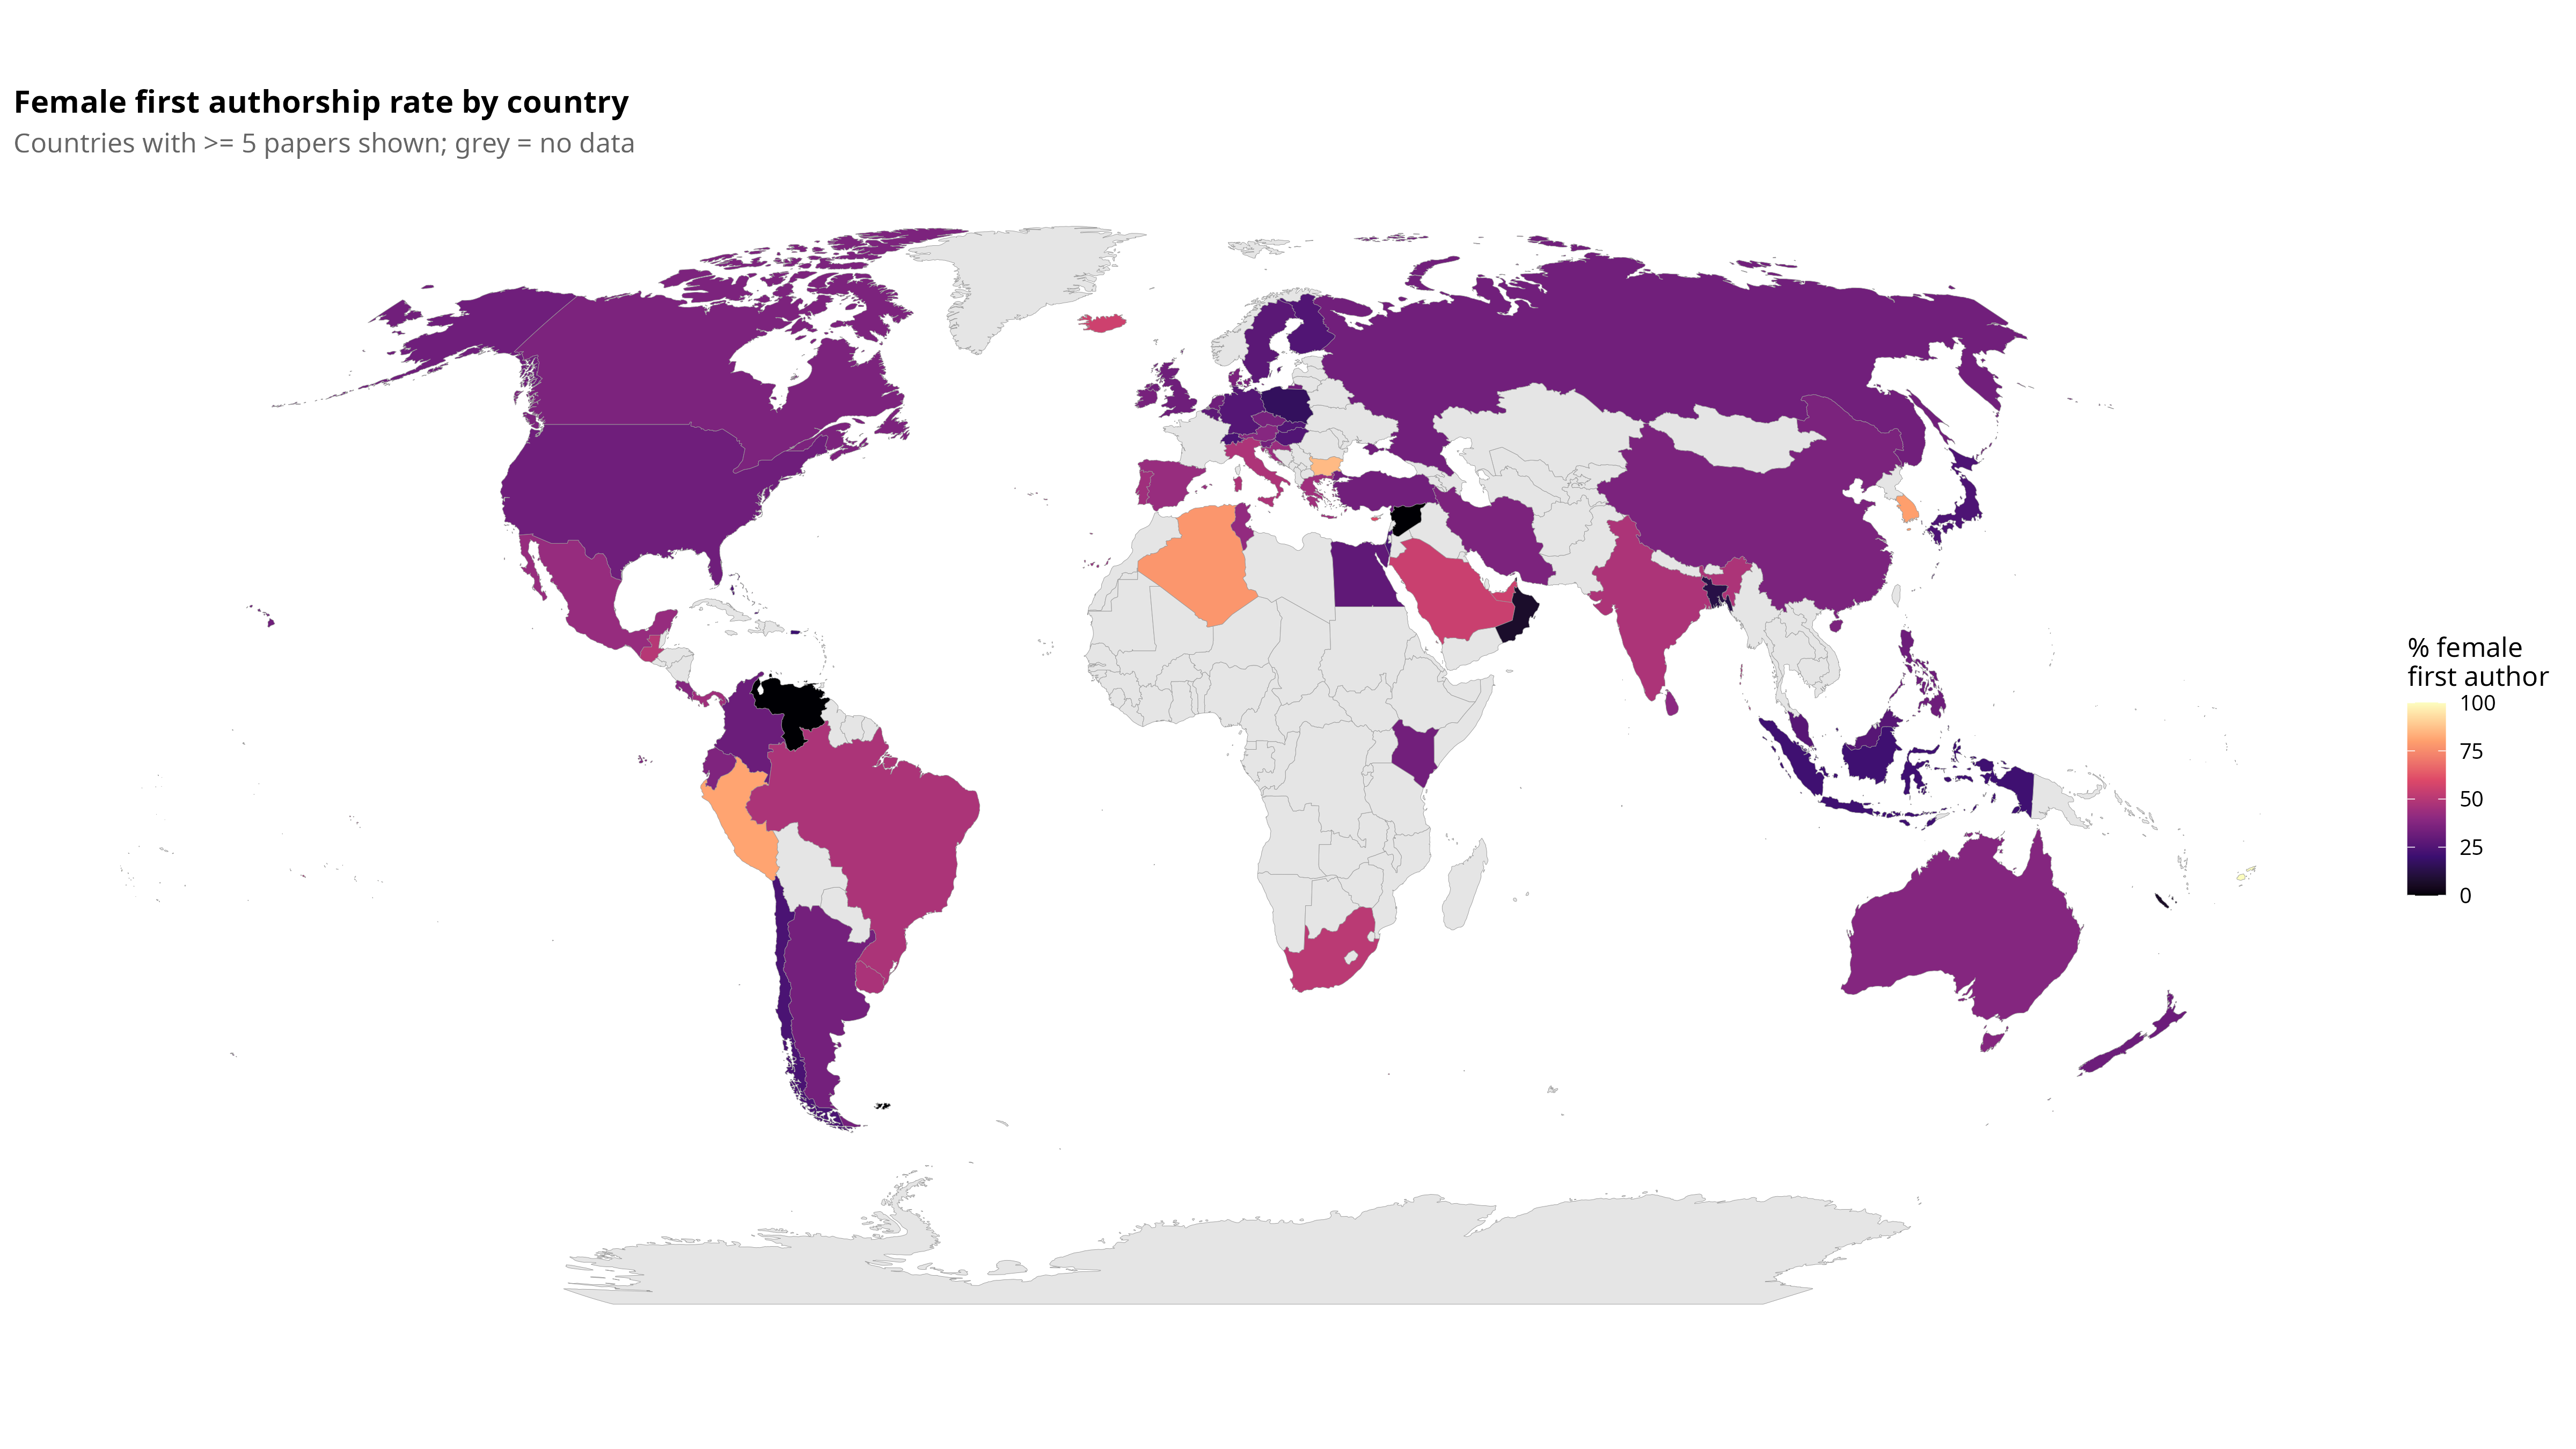
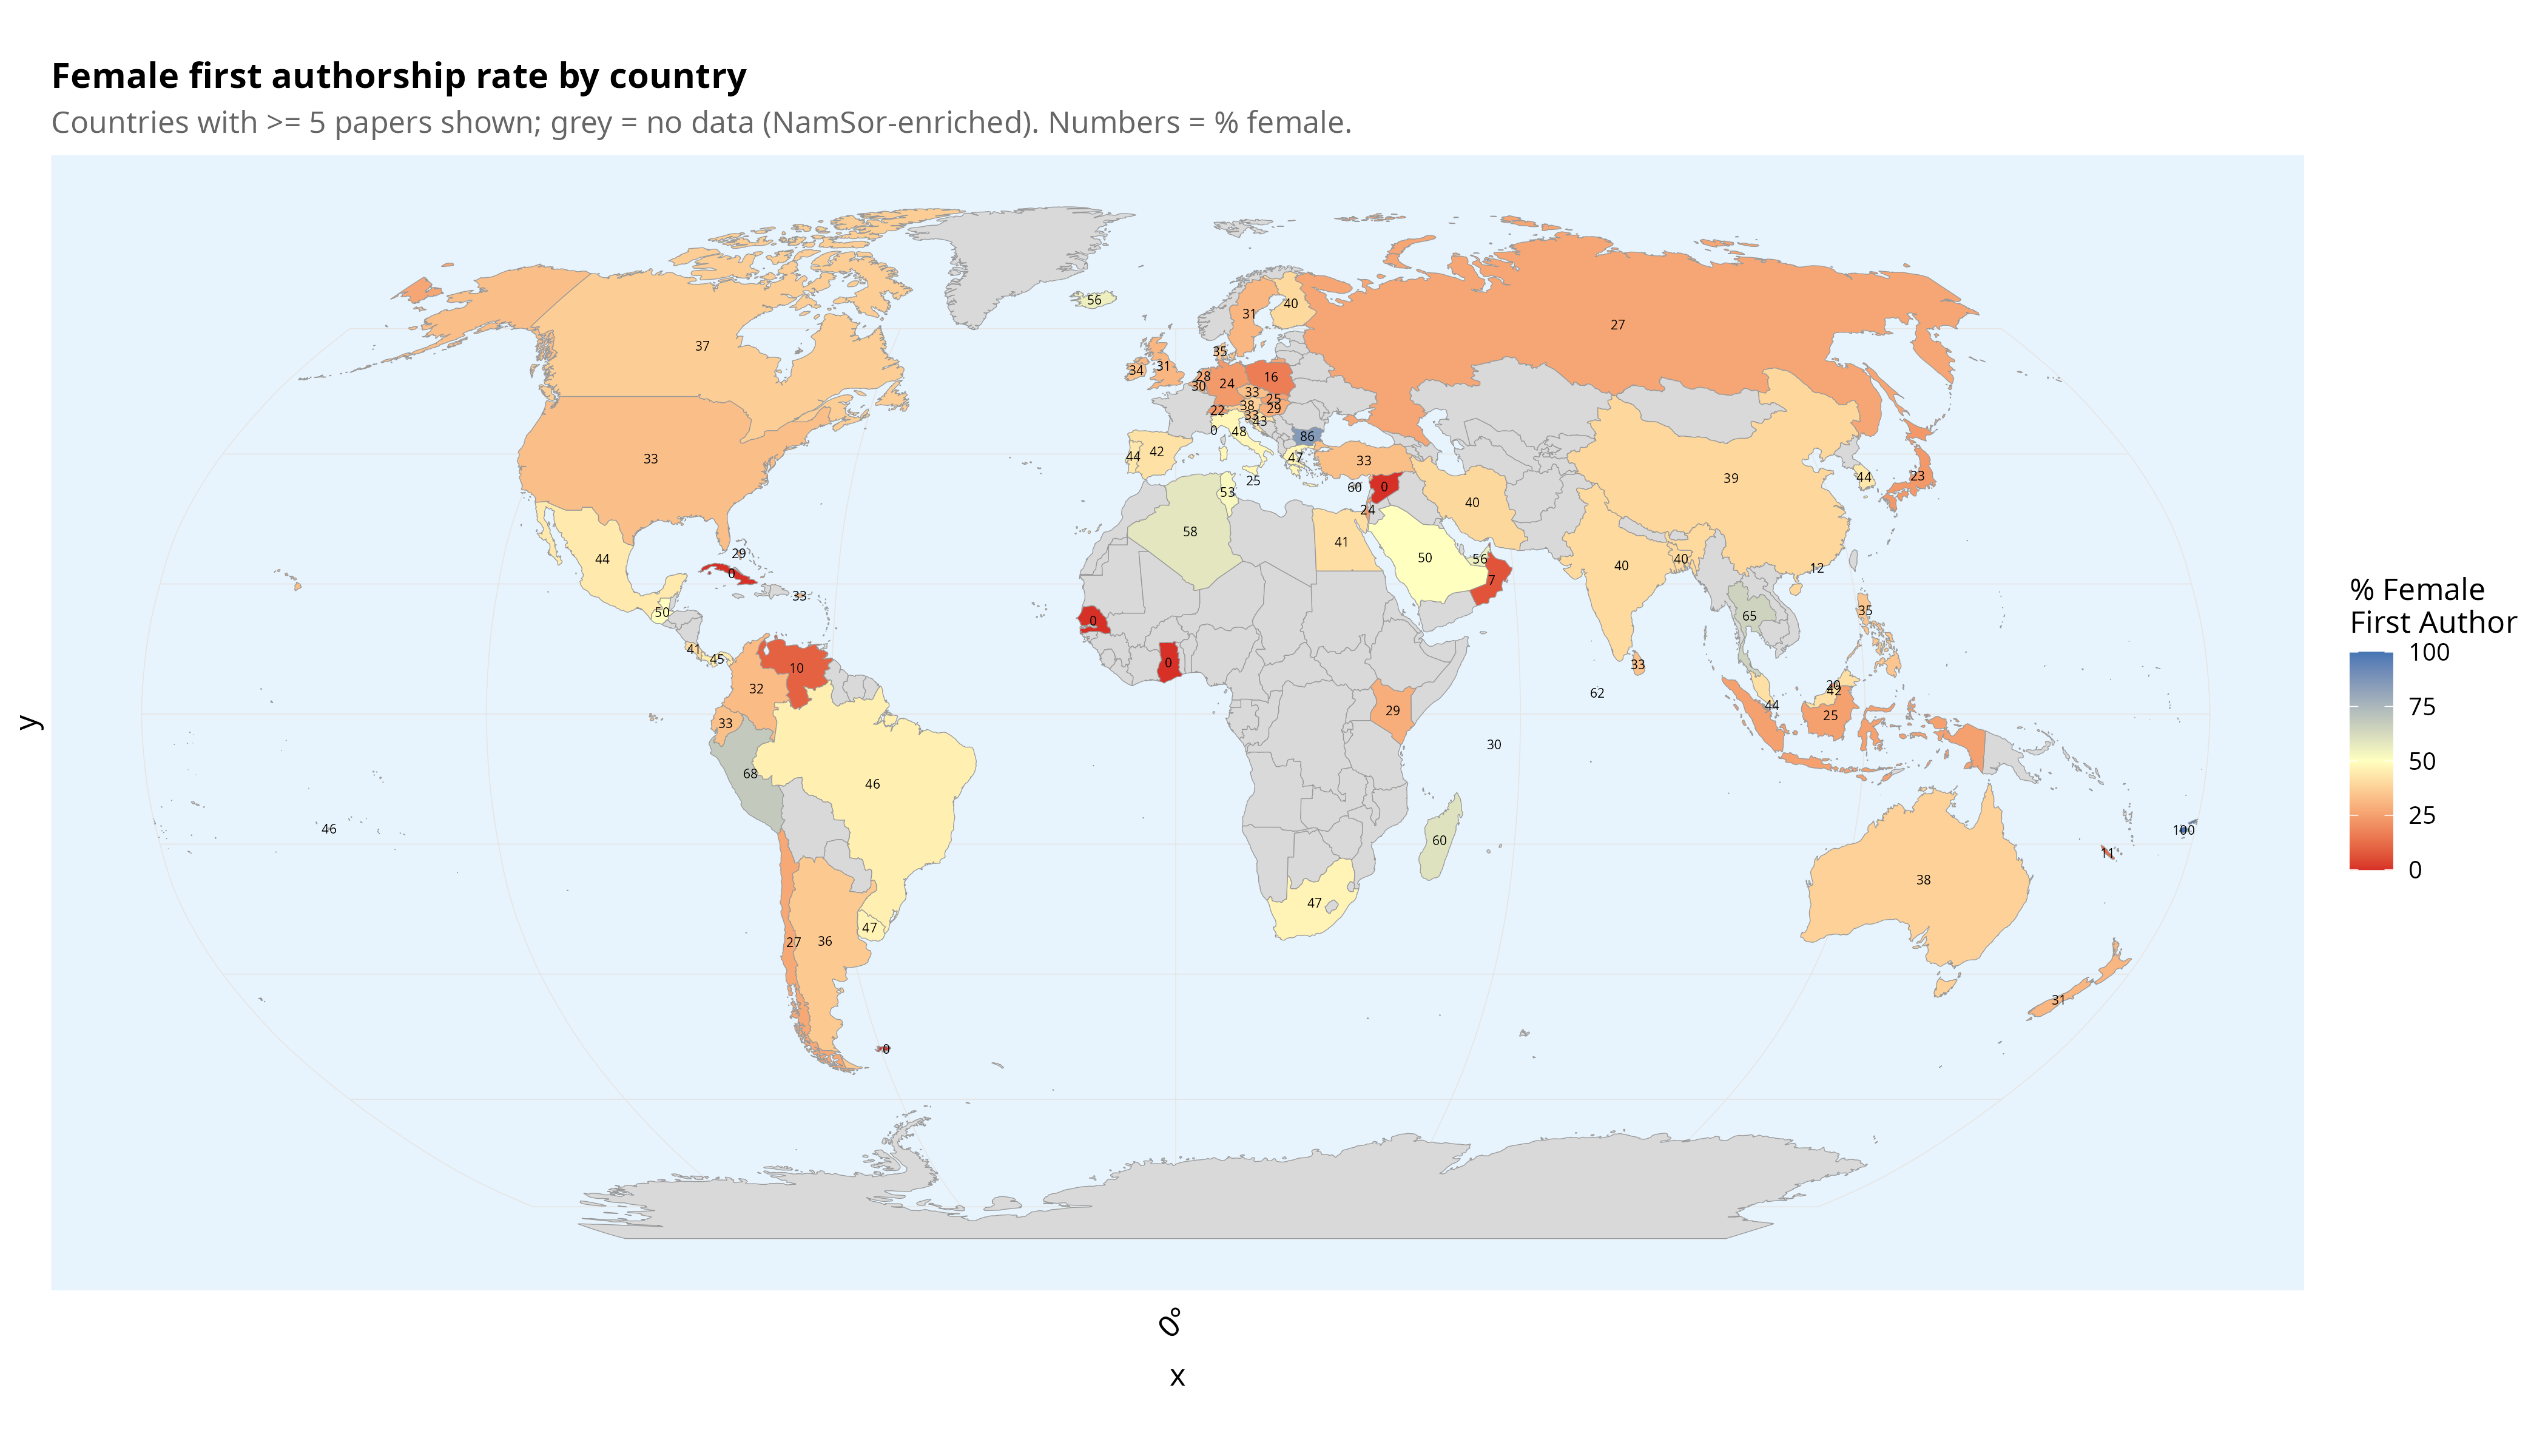
ops: xlsx formatting rule, cron→anacron, refreshed gender figures + coauthor xlsx
- CLAUDE.md: add XLSX Output Formatting section (freeze top row, bold
  headers, autofilter, auto-fit <=60 chars) with openpyxl snippet
- scripts/genderize_cron.sh: migrate cron wrapper to anacron form
  (anacron runs as root; wrap python + notify-send in su simon -c)
- outputs/figures/A5_spatial_gender_map.png,
  C5_corr_gender_discipline.png, D6_bars_gender_summary.png: rerender
  after NamSor refresh
- outputs/meeting_review/2026-04-15_schema_extraction_evidence_by_coauthor.xlsx:
  update coauthor evidence roll-up

Changed region(s): [[0.1248, 0.125, 0.8421, 0.9062], [0.0, 0.0312, 0.5302, 0.125], [0.9045, 0.4062, 0.9981, 0.625]]

diff --git a/.claude/claude.md b/.claude/claude.md
@@ -286,6 +286,24 @@ dbGetQuery(con, "
 
 **Additional working directory:** `/home/simon/Documents/Si Work/PostDoc Work/EEA/2025/Data Panel`
 
+## XLSX Output Formatting
+
+When creating any `.xlsx` file, always apply these formatting rules:
+1. **Freeze the top row** (header row stays visible when scrolling)
+2. **Bold the header row**
+3. **Add autofilter** to all columns
+4. **Auto-fit column widths** (capped at 60 characters)
+
+```python
+# openpyxl example
+from openpyxl.styles import Font
+ws = writer.sheets["sheet_name"]
+ws.freeze_panes = "A2"
+ws.auto_filter.ref = ws.dimensions
+for cell in ws[1]:
+    cell.font = Font(bold=True)
+```
+
 ## Frequent Gotchas & Reminders
 
 1. **Wide schema queries:** Always specify columns in SELECT, never use `SELECT *`